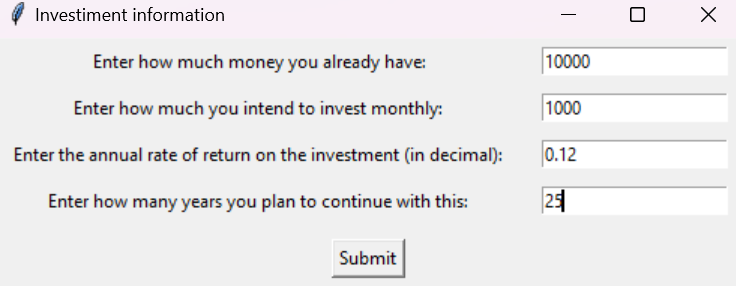
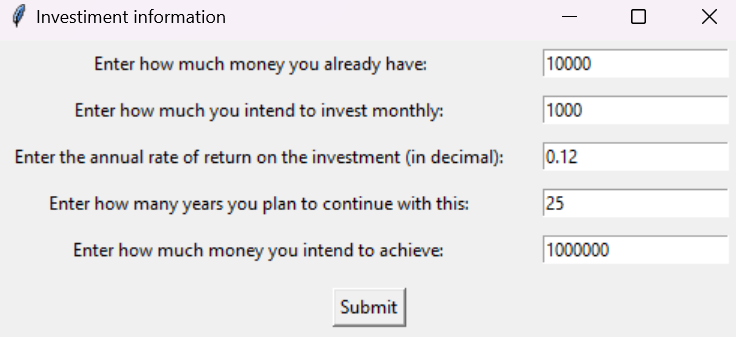
improving

diff --git a/Monthly_invest.py b/Monthly_invest.py
@@ -21,7 +21,7 @@ def plot_graphic(x_data, y_data, title=None, x_label=None, y_label=None):
     fig.update_yaxes(title_text=y_label)
     fig.show()
 
-def time_for_1M (im, monthly_invest, tax):
+def time_for_final_money(final_money, im, monthly_invest, tax):
     '''
     Calculate the time, in n_days, to reach 1 million reais
     Note that the calculated time only takes into account working n_days,
@@ -29,7 +29,7 @@ def time_for_1M (im, monthly_invest, tax):
     '''
     i = 0
     curr_value = im
-    while curr_value < 1000000:
+    while curr_value < final_money:
         total_daily_profit = curr_value*tax
         if i <= 180:
             real_profit = total_daily_profit * 0.775
@@ -105,22 +105,28 @@ def interface():
     years_entry = tk.Entry(root)
     years_entry.grid(row=3, column=1, padx=10, pady=5)
 
+    money_label = tk.Label(root, text="Enter how much money you intend to achieve: ")
+    money_label.grid(row=4, column=0, padx=10, pady=5)
+    money_entry = tk.Entry(root)
+    money_entry.grid(row=4, column=1, padx=10, pady=5)
+
     # Function to retrieve user input
     def submit(output):
         initial_money = initial_money_entry.get()
         monthly_invest = monthly_invest_entry.get()
         tax = tax_entry.get()
         years = years_entry.get()
+        expt_money = money_entry.get()
 
         if not (initial_money and monthly_invest and tax and years):
             print("Please fill in all fields.")
         
-        output.extend([initial_money, monthly_invest, tax, years])
+        output.extend([initial_money, monthly_invest, tax, years, expt_money])
         root.destroy()
 
     # Button to submit the input
     submit_button = tk.Button(root, text="Submit", command= lambda: submit(info))
-    submit_button.grid(row=5, columnspan=2, padx=10, pady=10)
+    submit_button.grid(row=6, columnspan=2, padx=10, pady=10)
 
     # Run the Tkinter event loop
     root.mainloop()
@@ -128,17 +134,21 @@ def interface():
     return info
 
 def main():
-    initial_money, monthly_invest, tax, years = interface()
+    initial_money, monthly_invest, tax, years, obj_money = interface()
 
-    initial_money = float(initial_money)
-    monthly_invest = float(monthly_invest)
-    tax = float(tax)/365 # daily yield rate
-    n_days = int(years)*365   # number of total n_days
-
+    try:
+        obj_money = float(obj_money)
+        initial_money = float(initial_money)
+        monthly_invest = float(monthly_invest)
+        tax = float(tax)/365      # daily yield rate
+        n_days = int(years)*365   # number of total n_days
+    except ValueError:
+        print("Invalid entry. The input needs to be a number.")
+    
     n_days, values = calc_invest(initial_money, monthly_invest, n_days, tax) # accumulated value in the time provided with the monthly input accumulation.
     final_value = values[-1]
 
-    n__bus_days = time_for_1M(initial_money, monthly_invest, tax)           # time in n_days that it would take to reach 1 million.
+    n__bus_days = time_for_final_money(obj_money, initial_money, monthly_invest, tax)           # time in n_days that it would take to reach 1 million.
     total_n_days = n__bus_days*365/251                       # n__bus_days only counts the n_days used for income
 
     inv_report = (
@@ -146,7 +156,7 @@ def main():
         'INVESTMENT REPORT\n' +
         f'Final value: {final_value:.2f} reais\n' +
         f'You won {(final_value - monthly_invest*(int(years)*12)):.2f} reais with the investment.\n' +
-        f'Accumulating {monthly_invest} reais per month and starting with {initial_money} reais, it would take you {(total_n_days/12):.2f} months to reach 1 million reais, which would give {(total_n_days/365):.2f} years.'
+        f'Accumulating {monthly_invest} reais per month and starting with {initial_money} reais, it would take you {(total_n_days/12):.2f} months to reach {obj_money} reais, which would give {(total_n_days/365):.2f} years.'
         "\n==============================================================================================================================="
     )
     print(inv_report)

diff --git a/README.md b/README.md
@@ -1,6 +1,6 @@
 # Financial investiment
-Python repository that allows the user to evaluate how long it would take to become a millionaire by investing a certain amount of money per month.
-Furthermore, the program asks the user how long they would maintain this monthly investment rate, and prints the result at the end.
+Python repository that allows the user to evaluate how long it would take to achieve a certain quantity of money by investing monthly.
+Furthermore, the program asks the user how long you would maintain this monthly investment, then it prints the final value and shows a graphic detailing the exponential profit growth.
 
 By default, a CDB income tax (IR) discount is considered:
 <p>
